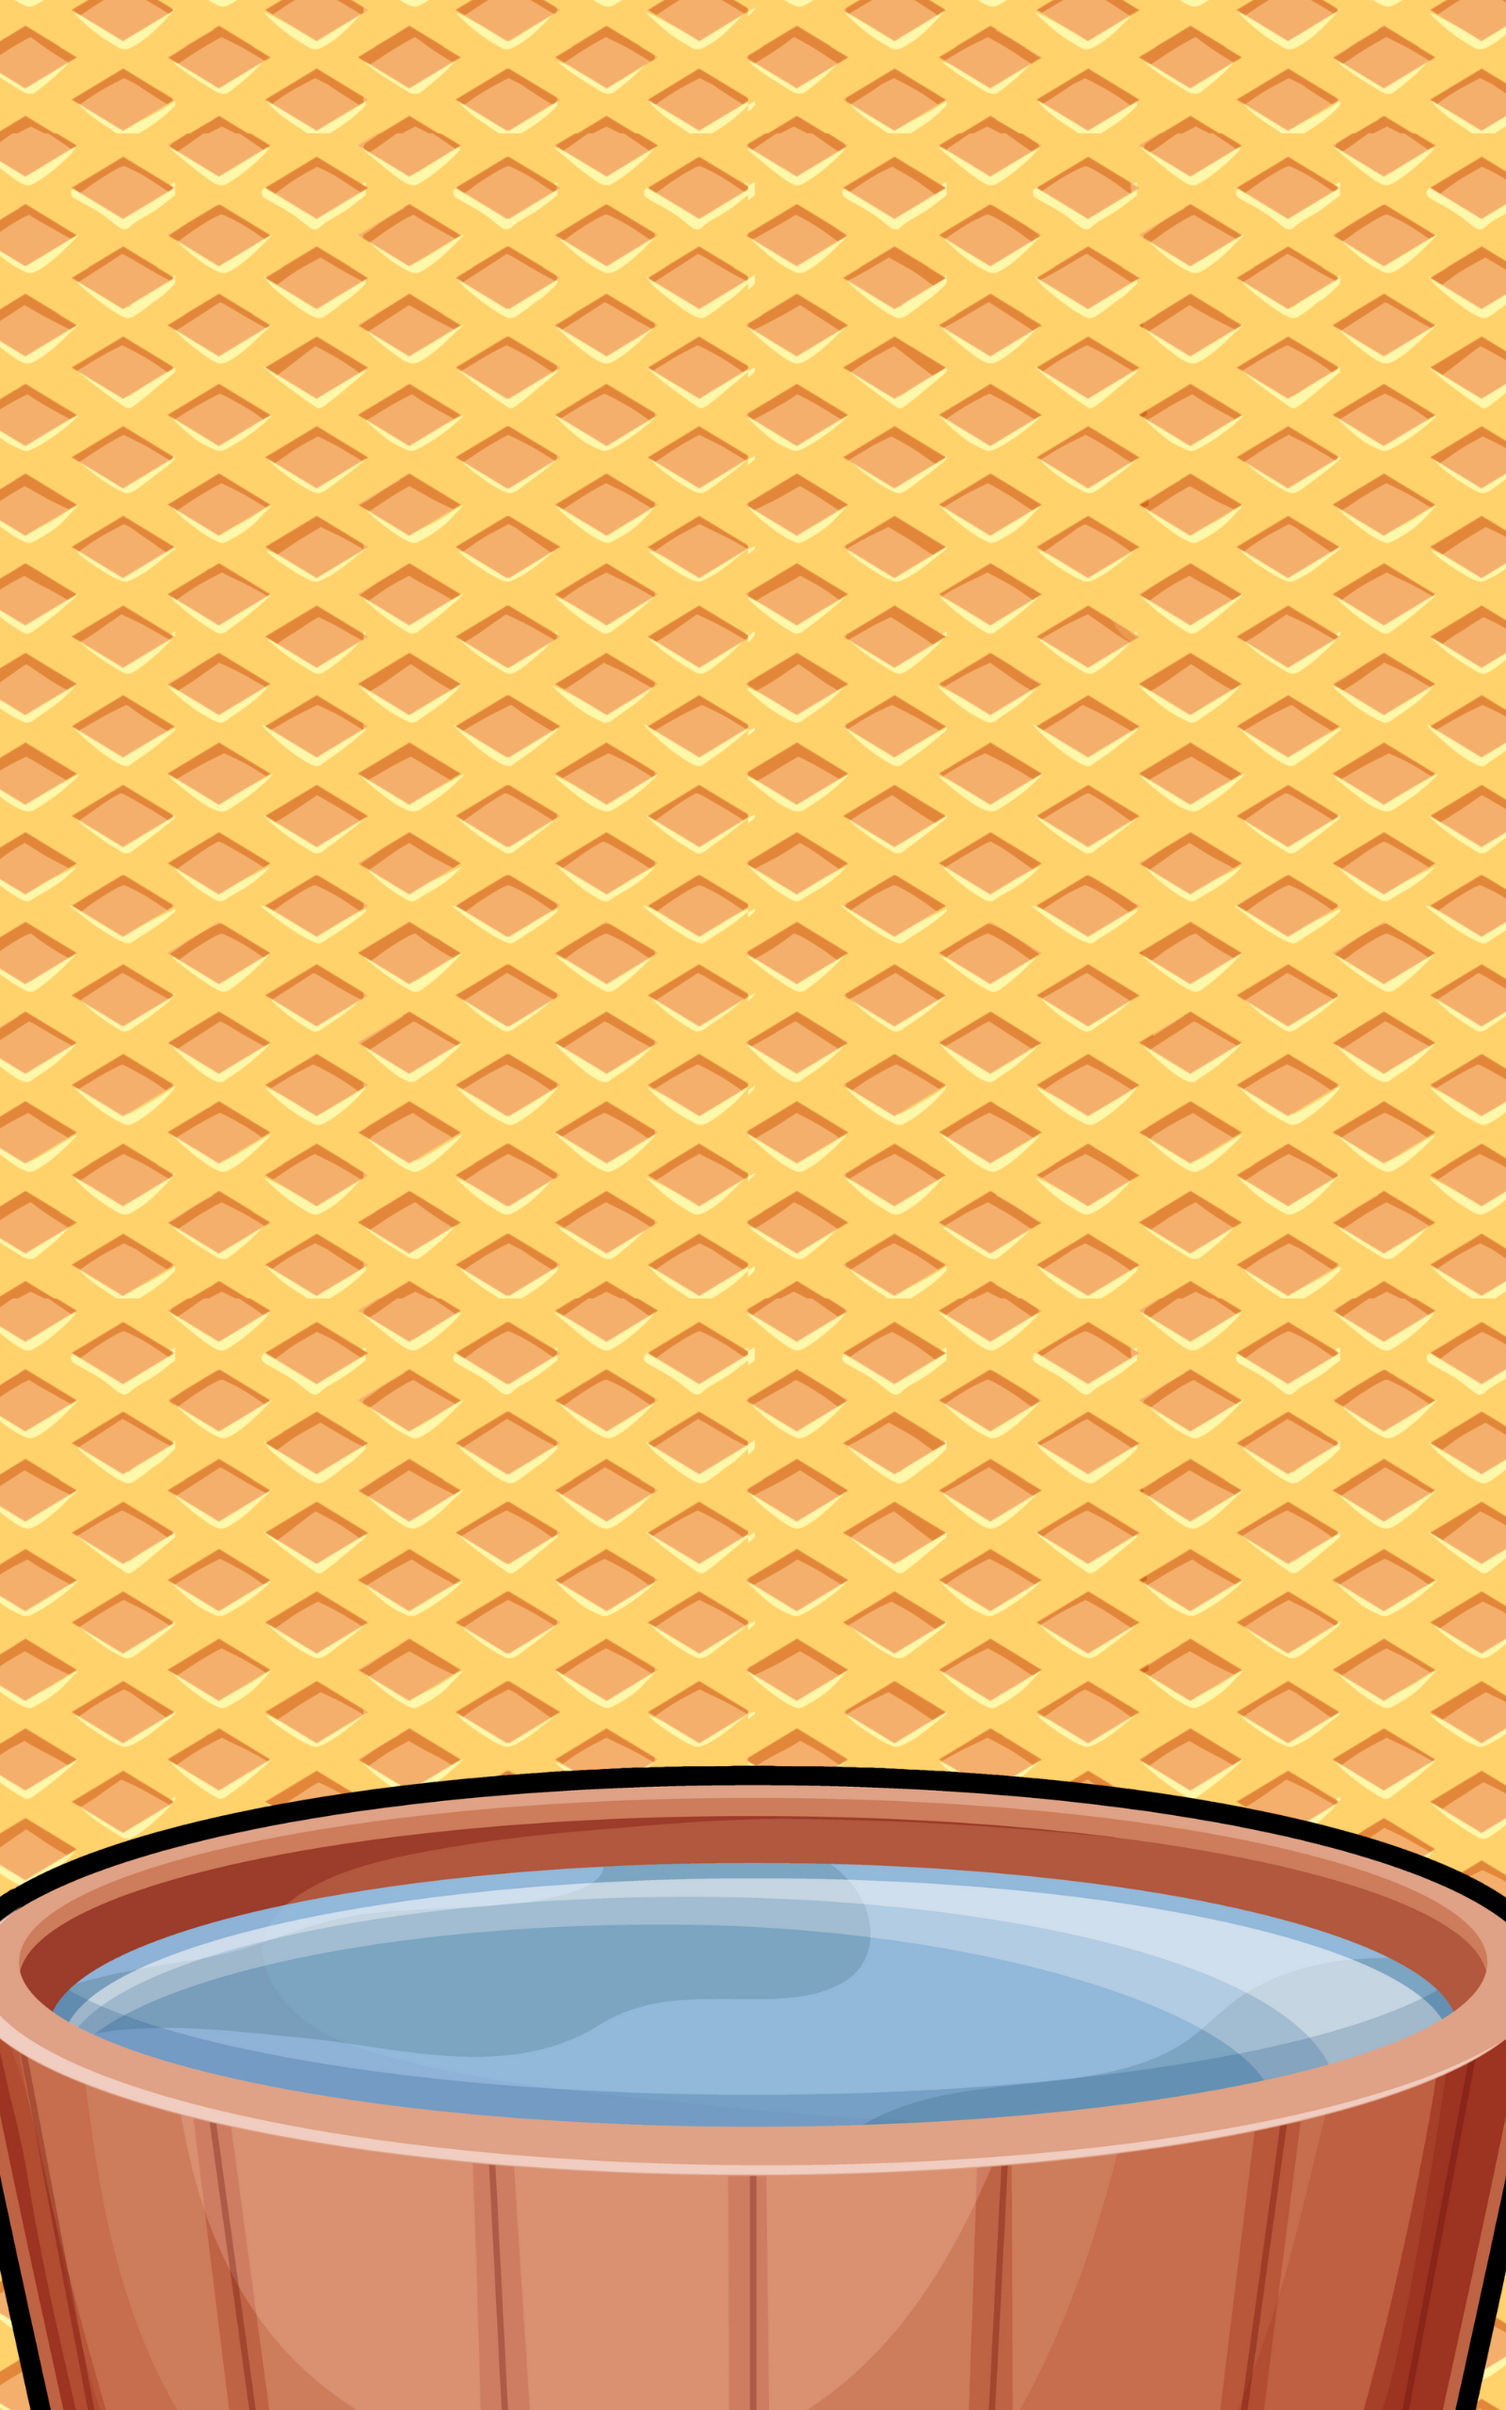
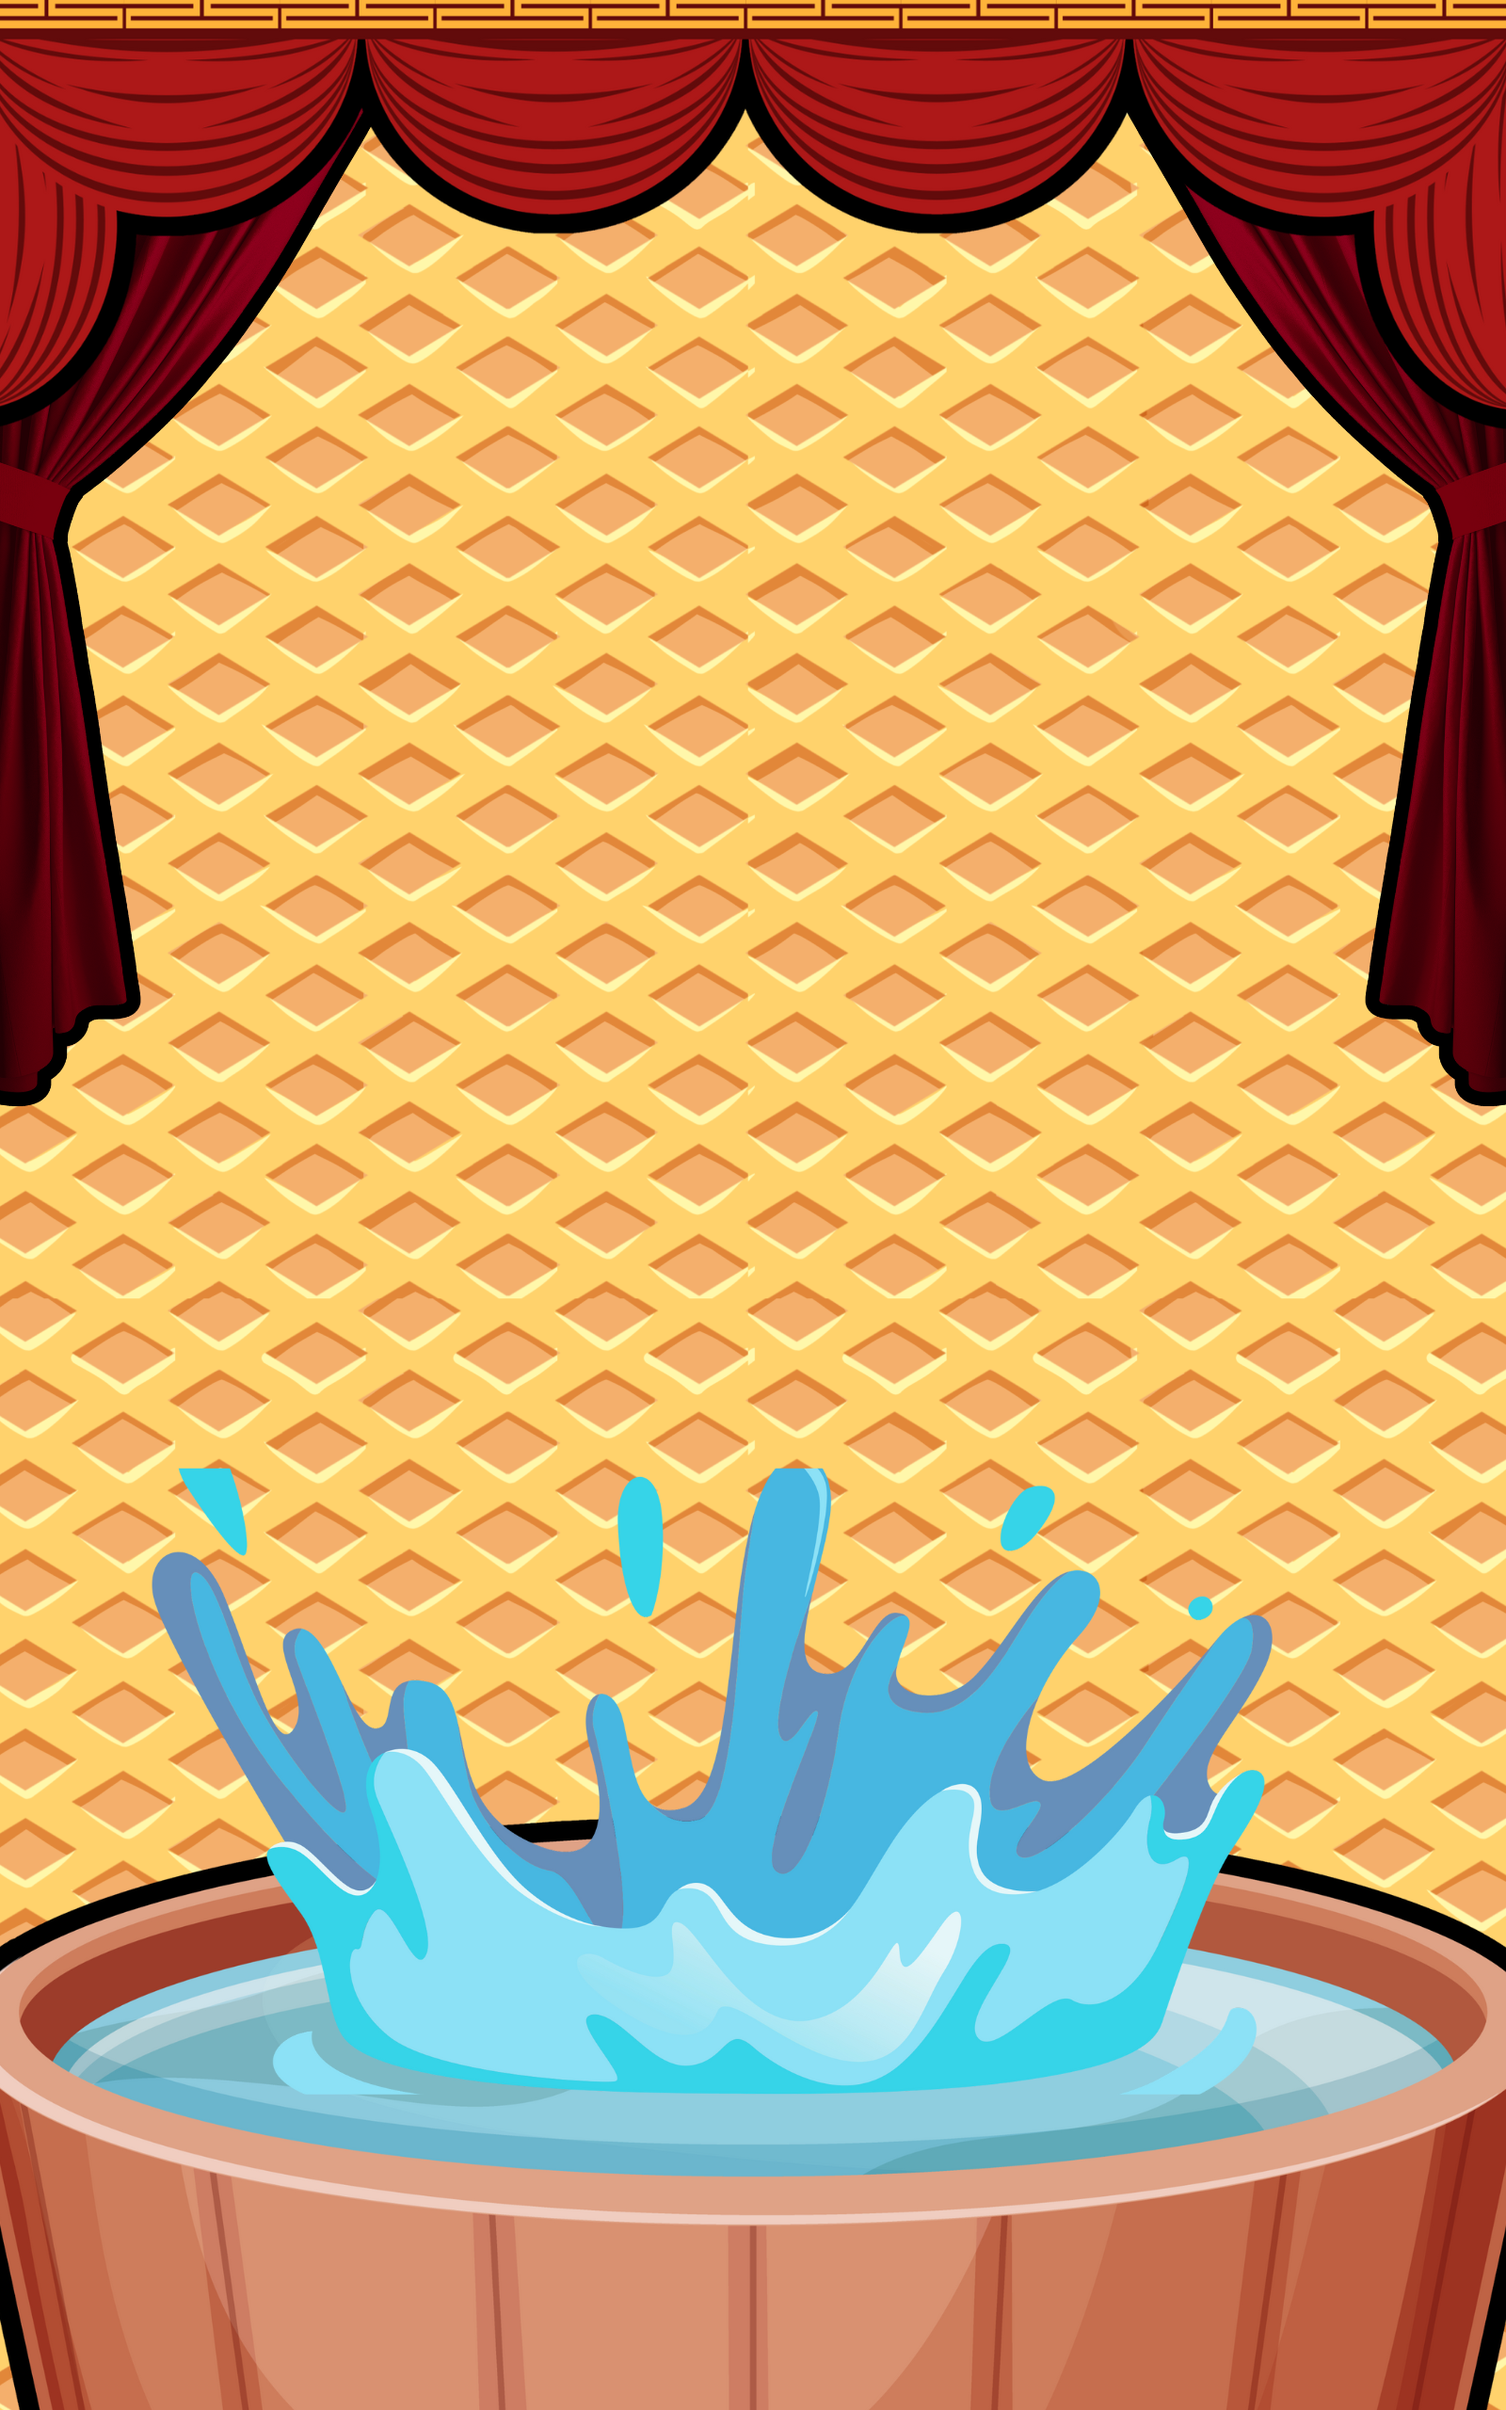
Changes

diff --git a/Game.xaml b/Game.xaml
@@ -20,7 +20,6 @@
                        Text="{Binding GameStatus}"
                        FontFamily="DeadlyCute"
                        FontSize="16"
-                       Margin="0,10,0,0"
                        />
 
                 <Label 
@@ -32,13 +31,21 @@
 
                 <Image HeightRequest="200"/>
 
-                <Label FontSize="30"
+                <Label FontSize="35"
                        FontAttributes="Bold"
                        FontFamily="DeadlyCute"
                        HorizontalOptions="Center"
                        Text="{Binding Spotlight}"
                        VerticalOptions="Center"
-                       TextColor="White"/>
+                       TextColor="White">
+                    <Label.Shadow>
+                        <Shadow 
+                             Brush="Black"
+                             Opacity="0.5" 
+                             Radius="5" 
+                             Offset="2,5" />
+                    </Label.Shadow>
+                </Label>
 
                 <Border 
                     Stroke="Black"
@@ -55,6 +62,7 @@
                      FontSize="16" 
                      TextColor="White"
                      HorizontalOptions="Center" 
+                     FontFamily="poppins"
                      Margin="5" />
                     
                 </Border>

diff --git a/MainPage.xaml b/MainPage.xaml
@@ -17,11 +17,10 @@
             <Label
                 Text="Designed by Navasca and Bas"
                 FontSize="14"
-                FontAttributes="Bold"
                 HorizontalTextAlignment="Center"
                 FontFamily="poppins"
-                TextColor="Black"
-                Margin="0,20,0,0"/>
+                TextColor="White"
+                Margin="0,15,0,0"/>
             
             <Image
                 Grid.Row="1"
@@ -33,7 +32,7 @@
                          x:Name="Play"
                          Clicked="Play_Clicked" 
                          Source="button.png"
-                         WidthRequest="200"
+                         WidthRequest="300"
                          CornerRadius="20"
                          BackgroundColor="Transparent"
                          Margin="0"

diff --git a/Game.xaml.cs b/Game.xaml.cs
@@ -83,7 +83,7 @@ public partial class Game : ContentPage, INotifyPropertyChanged
 		{ "HARDWARE","The physical components of a computer."},
 		{ "NETWORK","A group of interconnected computers and devices."},
 		{ "INTERFACE","This is what users see first in the screen."},
-		{ "VISUALSTUDIO","an app that mostly students used for desktop development."},
+		{ "VISUALSTUDIO","An app that mostly students used for desktop development."},
 		{ "GITHUB", "A platform for storing code projects and collaborative software development."}
 	};
 	#endregion
@@ -97,7 +97,6 @@ public partial class Game : ContentPage, INotifyPropertyChanged
 	private int maxWrong = 6;
 	private string gameStatus;
 	private string currentImage = "img0.jpg";
-	private readonly int CluesCount = 2;
 	private string hint;
 
 	public Game()
@@ -108,6 +107,7 @@ public partial class Game : ContentPage, INotifyPropertyChanged
 		PickWord();
 		CalculateWord(answer, guessed);
 		UpdateStatus();
+		EnableLetters();
 
 	}
 
@@ -136,9 +136,14 @@ public partial class Game : ContentPage, INotifyPropertyChanged
 		answer = selectedWord;
 		Hint = wordHints[selectedWord];
 
+		int calculatedClues = answer.Length / 3;
+		int cluesToAdd = Math.Max(1, calculatedClues);
+	
 
 		var wordLetters = answer.Distinct().ToList();
-		int cluesToAdd = Math.Min(CluesCount, wordLetters.Count);
+		cluesToAdd = Math.Min(cluesToAdd, wordLetters.Count);
+
+		guessed.Clear();
 
 		for (int i = 0; i < cluesToAdd; i++)
 		{
